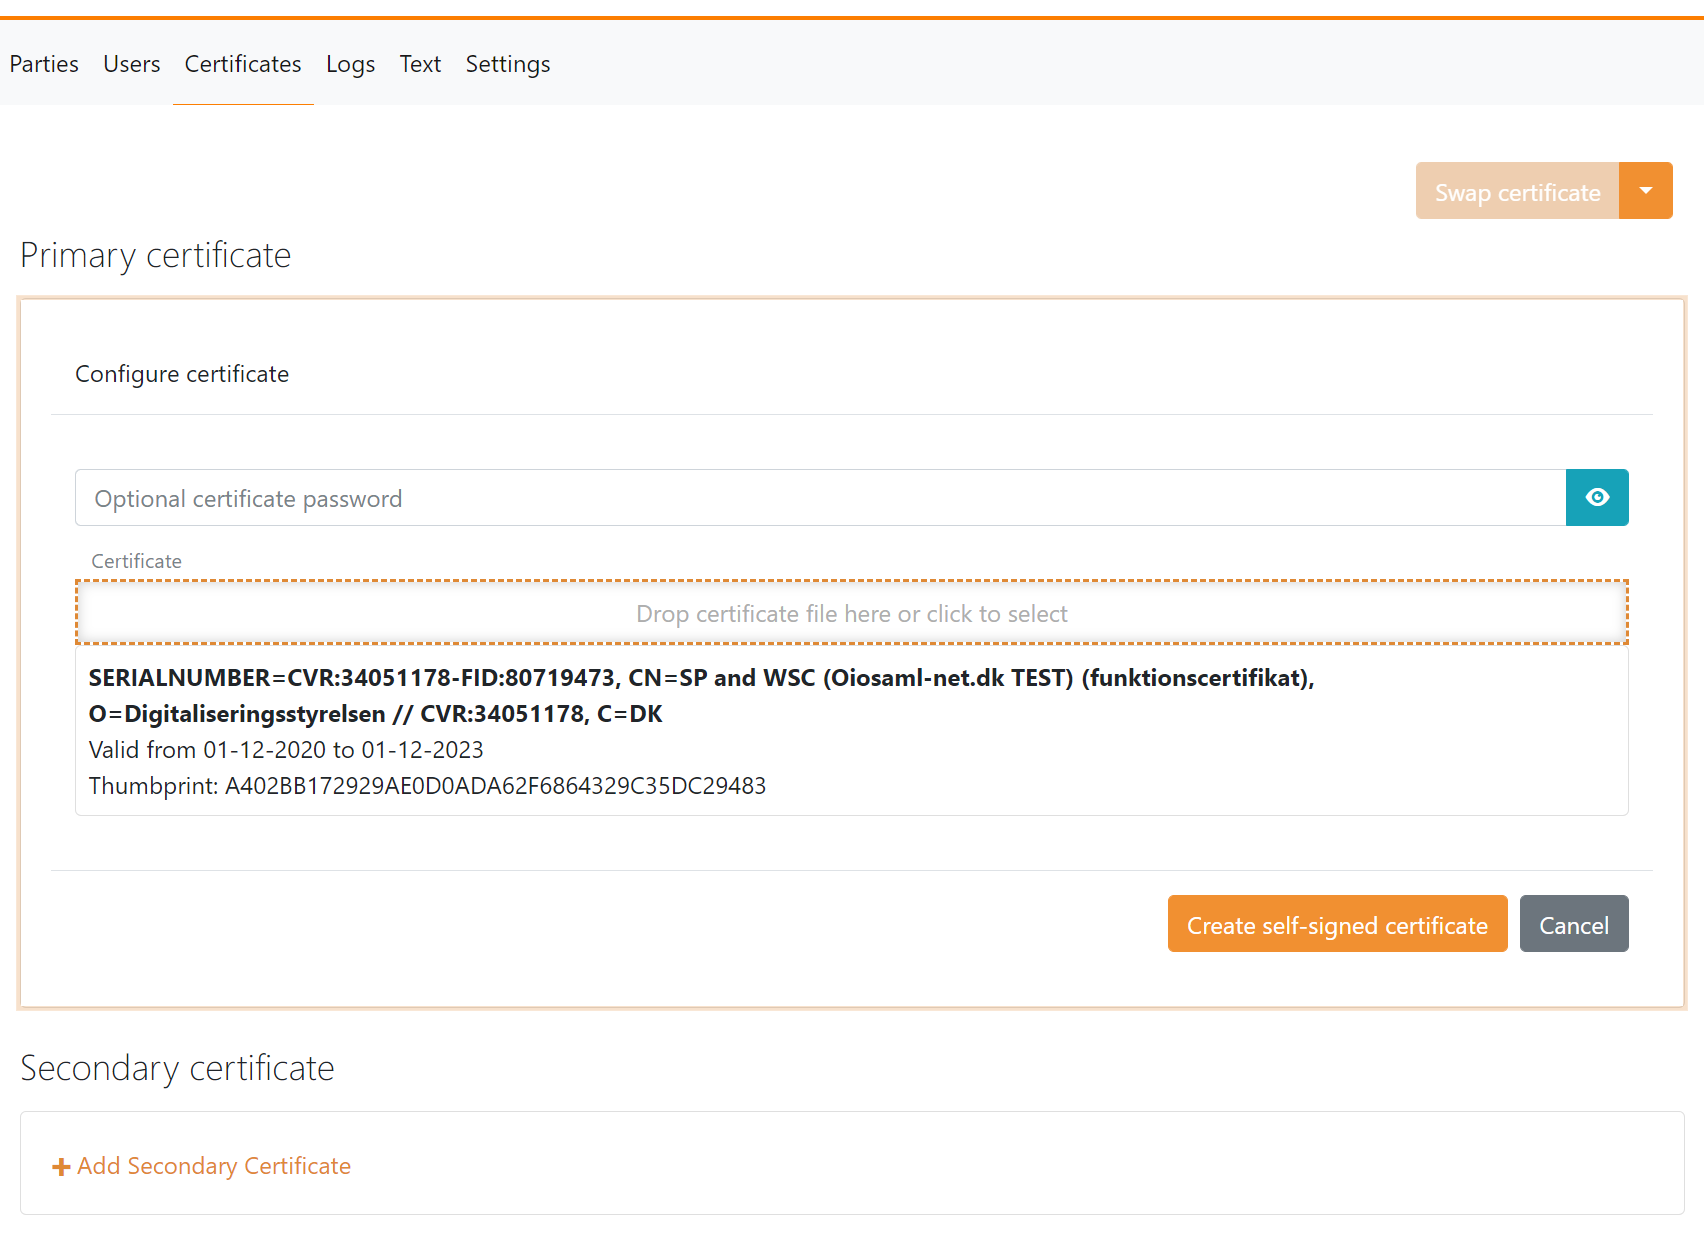
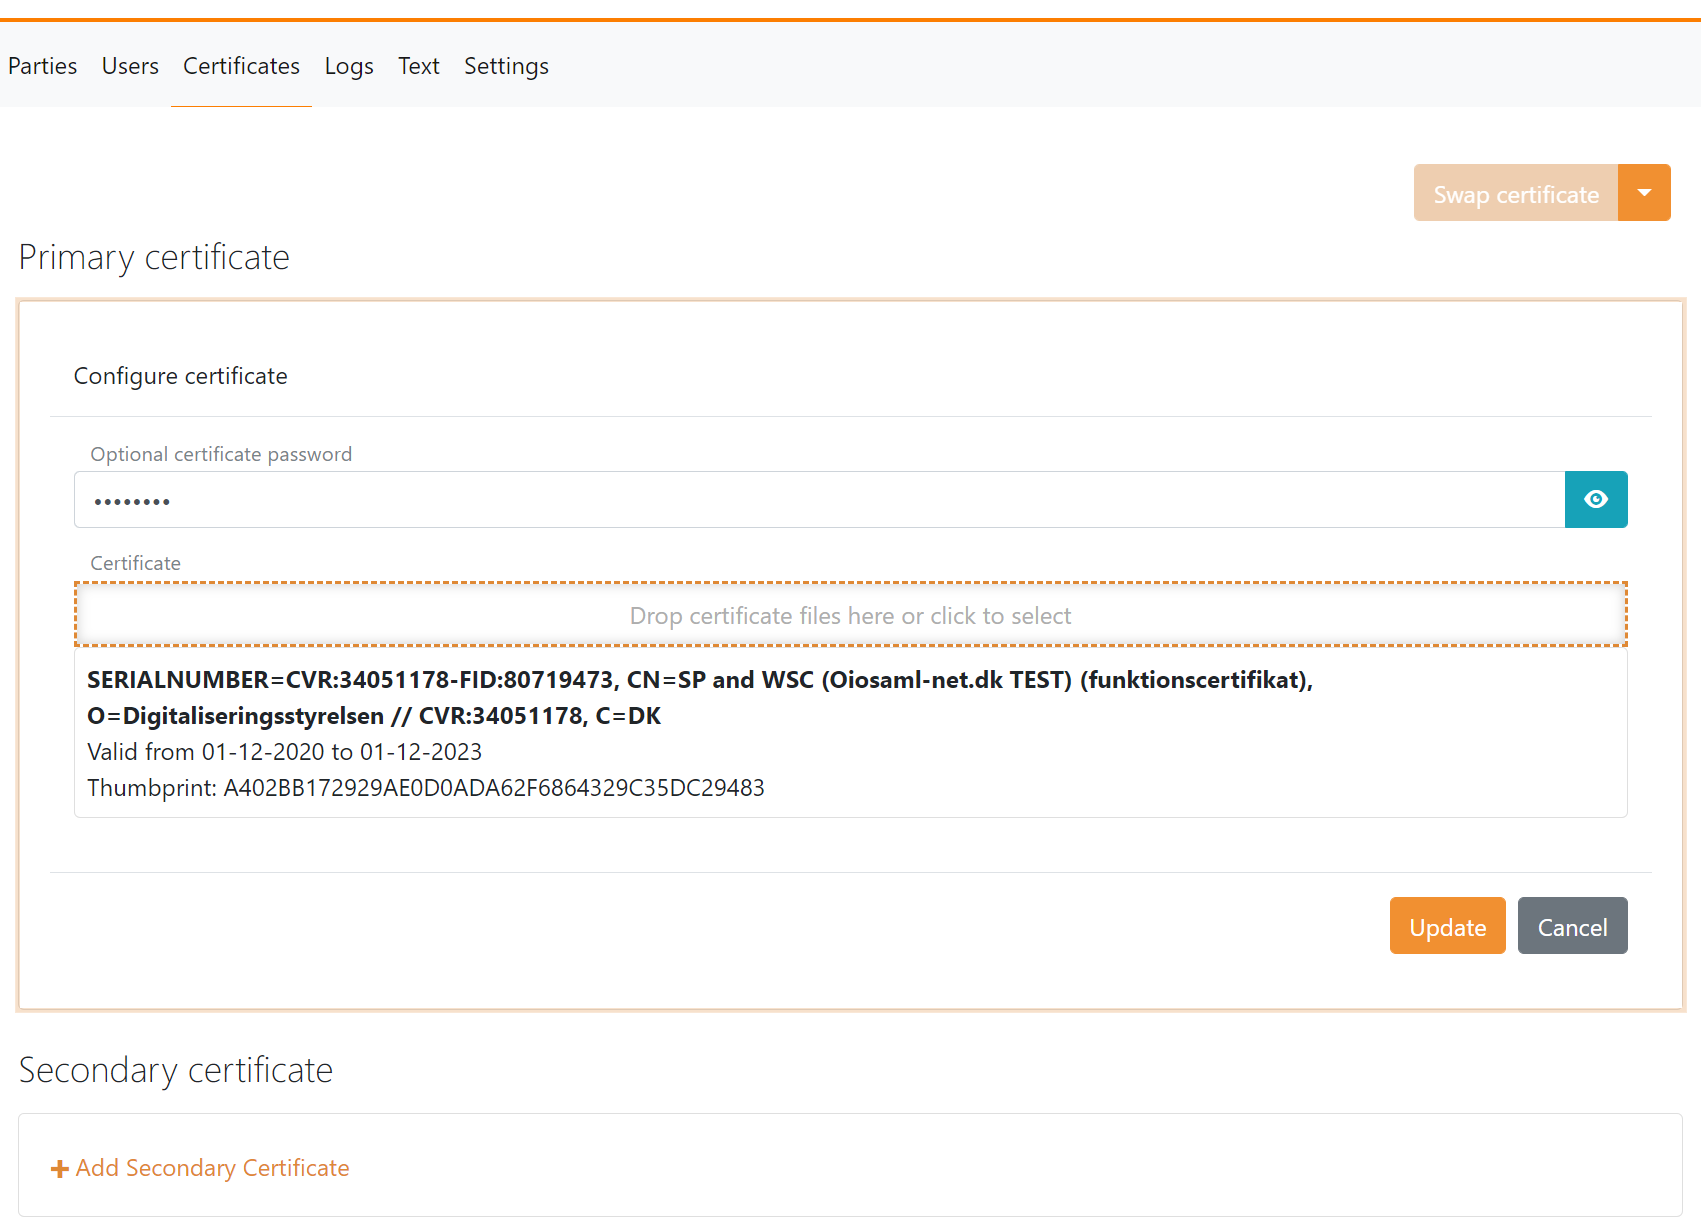
ConvertCertificateController to JWK

diff --git a/src/FoxIDs.Control/Controllers/Util/TConvertCertificateController.cs b/src/FoxIDs.Control/Controllers/Util/TConvertCertificateController.cs
@@ -6,6 +6,7 @@ using System;
 using System.Threading.Tasks;
 using System.Security.Cryptography.X509Certificates;
 using ITfoxtec.Identity;
+using ITfoxtec.Identity.Models;
 
 namespace FoxIDs.Controllers
 {
@@ -26,19 +27,19 @@ namespace FoxIDs.Controllers
 
             var certificateRequestBytes = Convert.FromBase64String(certificateRequest.Bytes);
 
-            var certificateBytes = certificateRequest.Password.IsNullOrWhiteSpace() switch
+            var jwk = certificateRequest.Password.IsNullOrWhiteSpace() switch
             {
-                true => ReadCertificate(certificateRequestBytes, string.Empty),
-                false => ReadCertificate(certificateRequestBytes, certificateRequest.Password)
+                true => await ConvertCertificateToJwk(certificateRequestBytes, string.Empty),
+                false => await ConvertCertificateToJwk(certificateRequestBytes, certificateRequest.Password)
             };
 
-            return Ok(new Api.ConvertCertificateResponse { Bytes = Convert.ToBase64String(certificateBytes) });
+            return Ok(new Api.ConvertCertificateResponse { Key = jwk });
         }
 
-        private byte[] ReadCertificate(byte[] certificateBytes, string password)
+        private async Task<JsonWebKey> ConvertCertificateToJwk(byte[] certificateBytes, string password)
         {
-            var certificate = new X509Certificate2(certificateBytes, password, X509KeyStorageFlags.Exportable);                       
-            return certificate.Export(X509ContentType.Pfx);
-        }
+            var certificate = new X509Certificate2(certificateBytes, password, X509KeyStorageFlags.Exportable | X509KeyStorageFlags.PersistKeySet);
+            return await certificate.ToFTJsonWebKeyAsync(true);
+        } 
     }
 }

diff --git a/src/FoxIDs.ControlClient/Pages/Certificates.cs b/src/FoxIDs.ControlClient/Pages/Certificates.cs
@@ -201,22 +201,21 @@ namespace FoxIDs.Client.Pages
                         Password = generalCertificate.Form.Model.Password
                     });
 
-                    var certificate = new X509Certificate2(Convert.FromBase64String(certificateResponse.Bytes));
-                    var jwk = await certificate.ToFTJsonWebKeyAsync(true);
-                    if (!jwk.HasPrivateKey())
+                    if (!certificateResponse.Key.HasPrivateKey())
                     {
                         generalCertificate.Form.Model.Subject = null;
                         generalCertificate.Form.Model.Key = null;
                         generalCertificate.Form.SetFieldError(nameof(generalCertificate.Form.Model.Key), "Private key is required.");
                         return;
-                    }                        
+                    }
 
+                    var certificate = certificateResponse.Key.ToX509Certificate();
                     generalCertificate.Form.Model.Subject = certificate.Subject;
                     generalCertificate.Form.Model.ValidFrom = certificate.NotBefore;
                     generalCertificate.Form.Model.ValidTo = certificate.NotAfter;
                     generalCertificate.Form.Model.IsValid = certificate.IsValid();
                     generalCertificate.Form.Model.Thumbprint = certificate.Thumbprint;
-                    generalCertificate.Form.Model.Key = jwk;
+                    generalCertificate.Form.Model.Key = certificateResponse.Key;
                 }
                 catch (Exception ex)
                 {

diff --git a/src/FoxIDs.ControlShared/Models/Api/Util/ConvertCertificateResponse.cs b/src/FoxIDs.ControlShared/Models/Api/Util/ConvertCertificateResponse.cs
@@ -1,13 +1,14 @@
-using System.ComponentModel.DataAnnotations;
+using ITfoxtec.Identity.Models;
+using System.ComponentModel.DataAnnotations;
 
 namespace FoxIDs.Models.Api
 {
     public class ConvertCertificateResponse
     {
         /// <summary>
-        /// Certificate as base64 encoded byres.
+        /// Certificate as JsonWebKey.
         /// </summary>
         [Required]
-        public string Bytes { get; set; }
+        public JsonWebKey Key { get; set; }
     }
 }

diff --git a/docs/up-party-howto-saml-2.0-nemlogin3.md b/docs/up-party-howto-saml-2.0-nemlogin3.md
@@ -26,10 +26,15 @@ NemLog-in3 requires all requests (authn and logout) from the Relying Party (RP) 
 
 A OCES certificate is valid for three years where after it manually has to be updated.
 
-//TODO
+The OCES certificate is added as the primary certificate in the track.
 
+![Add OCES certificate](images/howto-saml-nemlogin3-certificate.png)
+
+It is possible to add a secondary certificate and to at swap between the primary and secondary certificate.
 
 ## Configuring NemLog-in 3 as Identity Provider (IdP)
+
+
 
 //TODO
 
